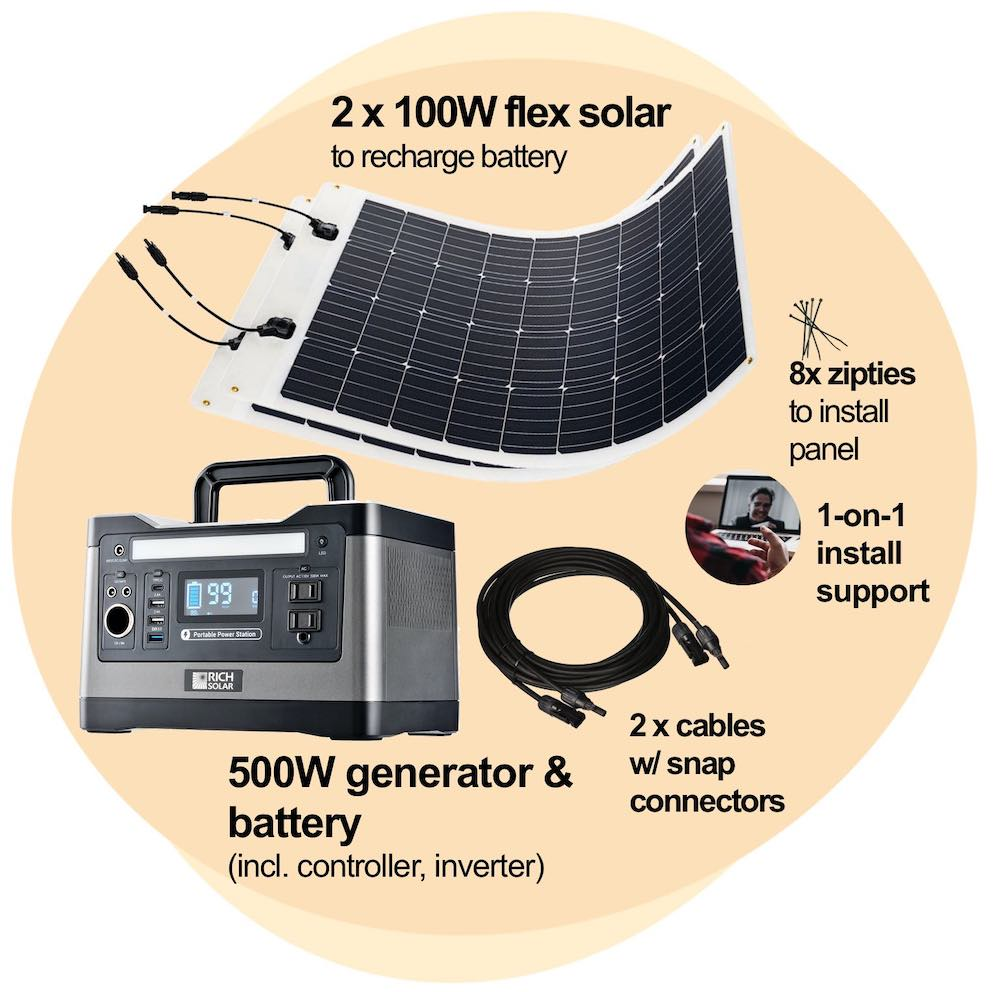
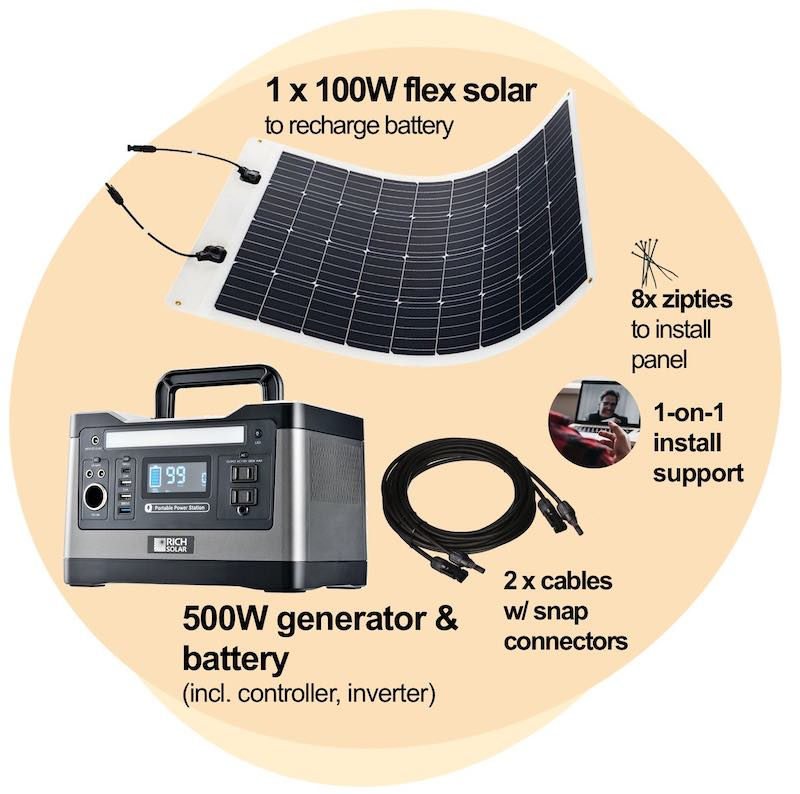
rebuilding site Fri Aug 21 18:08:41 PDT 2020

diff --git a/docs/index.html b/docs/index.html
@@ -398,9 +398,9 @@
                         aria-controls="collapsekit2">Expand ▽</a></h5>
                 <div class="collapse" id="collapsekit2">
                     <ul class="mb-0">
-                        <li>⏱2.5 hours of sun to recharge batteries.</li>
+                        <li>⏱5 hours of sun to recharge batteries.</li>
                         <li>500W Generator (2 standard outlets) & 540Wh battery to store power after sunset.</li>
-                        <li>2 flexible solar panels to recharge battery every day from sunshine.</li>
+                        <li>1 flexible solar panel to recharge battery every day from sunshine.</li>
                         <li>All zipties & snap cables (MC4) included. </li>
                         <li>1-on-1 support included.</li>
                     </ul>
@@ -412,13 +412,13 @@
                     <input type="hidden" name="cmd" value="_s-xclick">
                     <input type="hidden" name="hosted_button_id" value="WW5LSHQTYJL7Q">
                     <select name="os0" style="display: none; margin-bottom: 30px !important;" class="form-control">
-                        <option value="2 Solar Panels (2.5h sun to full)">2 Solar Panels (2.5h sun) $739 USD</option>
                         <option value="1 Solar Panel (5h sun to full)">1 Solar Panel (5h sun to full) $599 USD</option>
+                        <option value="2 Solar Panels (2.5h sun to full)">2 Solar Panels (2.5h sun) $739 USD</option>
                         <option value="No Solar Panel (outlet only)">No Solar Panel (outlet only) $459 USD</option>
                     </select>
                     <input type="hidden" name="currency_code" value="USD">
                     <button id="buy2" class="btn btn-block btn-lg btn-primary shadows" type="submit" name="submit">
-                        ☀ Buy Medium Kit for $699 〉 &nbsp;
+                        ☀ Buy Medium Kit for $599 〉 &nbsp;
                         <img src="/kit/img/paypal.png" style="height: 12px;" />
                     </button>
                     <span style="color: grey; text-align: center">Free shipping. Ships by 9/1/2020.</span>

diff --git a/docs/solar-kit/index.html b/docs/solar-kit/index.html
@@ -397,9 +397,9 @@
                         aria-controls="collapsekit2">Expand ▽</a></h5>
                 <div class="collapse" id="collapsekit2">
                     <ul class="mb-0">
-                        <li>⏱2.5 hours of sun to recharge batteries.</li>
+                        <li>⏱5 hours of sun to recharge batteries.</li>
                         <li>500W Generator (2 standard outlets) & 540Wh battery to store power after sunset.</li>
-                        <li>2 flexible solar panels to recharge battery every day from sunshine.</li>
+                        <li>1 flexible solar panel to recharge battery every day from sunshine.</li>
                         <li>All zipties & snap cables (MC4) included. </li>
                         <li>1-on-1 support included.</li>
                     </ul>
@@ -411,13 +411,13 @@
                     <input type="hidden" name="cmd" value="_s-xclick">
                     <input type="hidden" name="hosted_button_id" value="WW5LSHQTYJL7Q">
                     <select name="os0" style="display: none; margin-bottom: 30px !important;" class="form-control">
-                        <option value="2 Solar Panels (2.5h sun to full)">2 Solar Panels (2.5h sun) $739 USD</option>
                         <option value="1 Solar Panel (5h sun to full)">1 Solar Panel (5h sun to full) $599 USD</option>
+                        <option value="2 Solar Panels (2.5h sun to full)">2 Solar Panels (2.5h sun) $739 USD</option>
                         <option value="No Solar Panel (outlet only)">No Solar Panel (outlet only) $459 USD</option>
                     </select>
                     <input type="hidden" name="currency_code" value="USD">
                     <button id="buy2" class="btn btn-block btn-lg btn-primary shadows" type="submit" name="submit">
-                        ☀ Buy Medium Kit for $699 〉 &nbsp;
+                        ☀ Buy Medium Kit for $599 〉 &nbsp;
                         <img src="/kit/img/paypal.png" style="height: 12px;" />
                     </button>
                     <span style="color: grey; text-align: center">Free shipping. Ships by 9/1/2020.</span>

diff --git a/layouts/partials/foo2.html b/layouts/partials/foo2.html
@@ -233,9 +233,9 @@
                         aria-controls="collapsekit2">Expand ▽</a></h5>
                 <div class="collapse" id="collapsekit2">
                     <ul class="mb-0">
-                        <li>⏱2.5 hours of sun to recharge batteries.</li>
+                        <li>⏱5 hours of sun to recharge batteries.</li>
                         <li>500W Generator (2 standard outlets) & 540Wh battery to store power after sunset.</li>
-                        <li>2 flexible solar panels to recharge battery every day from sunshine.</li>
+                        <li>1 flexible solar panel to recharge battery every day from sunshine.</li>
                         <li>All zipties & snap cables (MC4) included. </li>
                         <li>1-on-1 support included.</li>
                     </ul>
@@ -247,13 +247,13 @@
                     <input type="hidden" name="cmd" value="_s-xclick">
                     <input type="hidden" name="hosted_button_id" value="WW5LSHQTYJL7Q">
                     <select name="os0" style="display: none; margin-bottom: 30px !important;" class="form-control">
-                        <option value="2 Solar Panels (2.5h sun to full)">2 Solar Panels (2.5h sun) $739 USD</option>
                         <option value="1 Solar Panel (5h sun to full)">1 Solar Panel (5h sun to full) $599 USD</option>
+                        <option value="2 Solar Panels (2.5h sun to full)">2 Solar Panels (2.5h sun) $739 USD</option>
                         <option value="No Solar Panel (outlet only)">No Solar Panel (outlet only) $459 USD</option>
                     </select>
                     <input type="hidden" name="currency_code" value="USD">
                     <button id="buy2" class="btn btn-block btn-lg btn-primary shadows" type="submit" name="submit">
-                        ☀ Buy Medium Kit for $699 〉 &nbsp;
+                        ☀ Buy Medium Kit for $599 〉 &nbsp;
                         <img src="/kit/img/paypal.png" style="height: 12px;" />
                     </button>
                     <span style="color: grey; text-align: center">Free shipping. Ships by 9/1/2020.</span>
